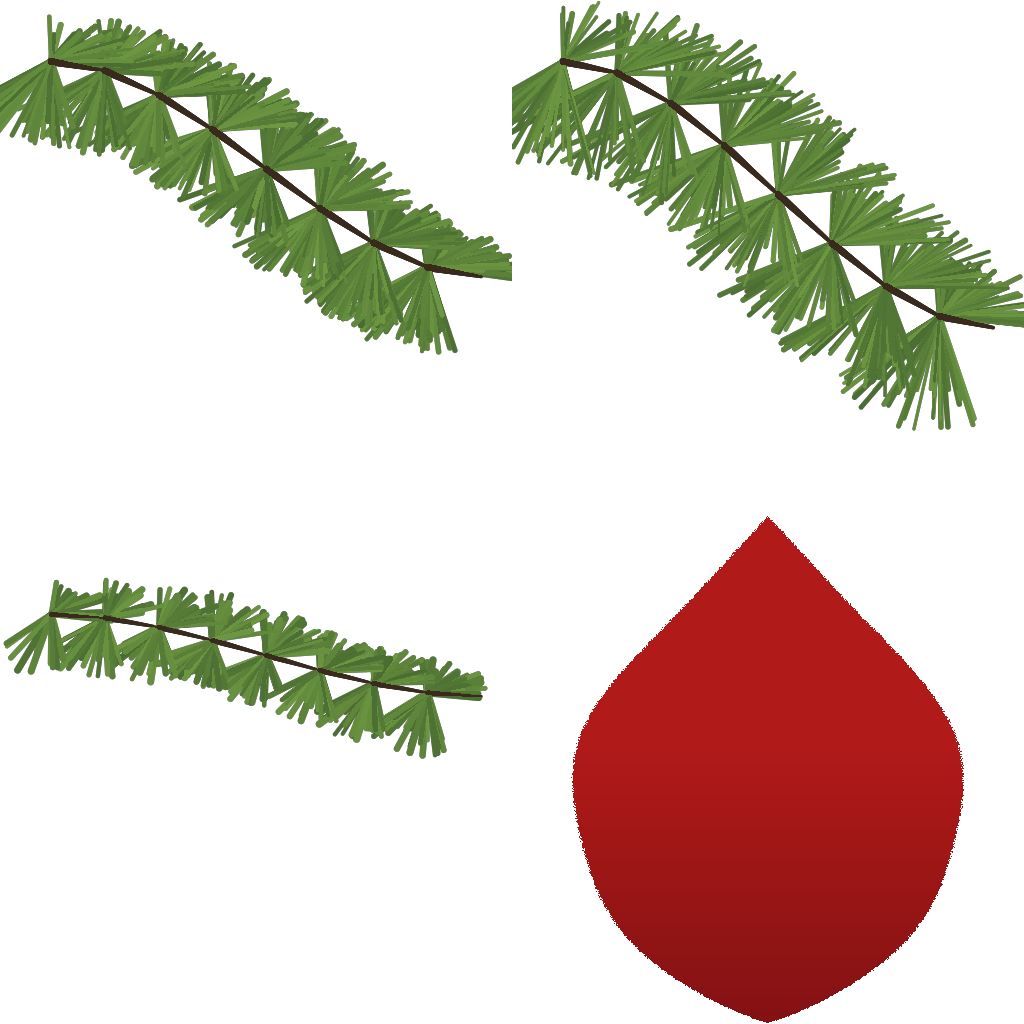
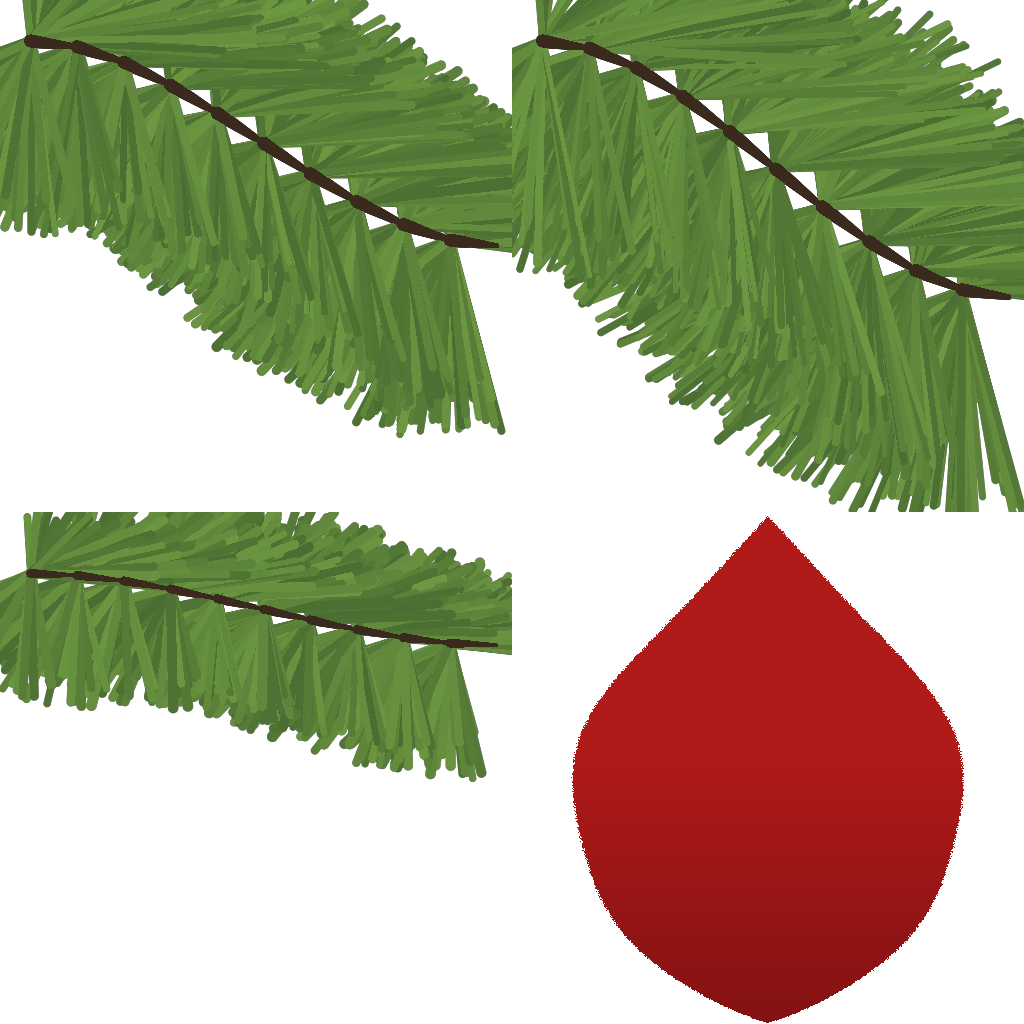
fix(strata): finish the V1b prop iteration and lint it (PRD-466 AC-5)

diff --git a/examples/strata-terrain-preview/src/game.ts b/examples/strata-terrain-preview/src/game.ts
@@ -212,9 +212,10 @@ function terrainScene(world: "forest" | "coastal"): new () => Scene<TerrainState
       }
       // --- the meadow's props -------------------------------------------------------------------
       //
-      // One variant set and one surface set per scene, built from the baked field: the placement
-      // rule reads the same colours and the same heights the ground material draws from, so a spruce
-      // stands where the ground says there is meadow rather than where a second opinion says so.
+      // Built on the first physics step rather than in `enter`, because both ways of asking the
+      // world where the ground is need a world that has been stepped: the ray query walks the
+      // heightfield's own triangles and the collider is not in the space until the solver runs.
+      // Asking in `enter` returns "no ground here" for every prop on a perfectly solid hillside.
       const propField: IPlacementField = {
         colors: data.colors,
         field,
@@ -225,65 +226,76 @@ function terrainScene(world: "forest" | "coastal"): new () => Scene<TerrainState
       const scatter = scatterProps(propField, BENCHMARK[world].focus);
       const propParts = buildPropVariants();
       const flat = flatPropMaterials();
-      // Ground contact is a raycast against the drawn terrain mesh, not the bilinear sampler: a
-      // spruce whose base floats a centimetre above the visible surface reads as a mistake at the
-      // exact distance a player spends the most time at.
-      const geometryBounds = mesh.geometry.boundingBox ?? mesh.geometry.computeBoundingBox();
-      const top = geometryBounds?.max.y ?? 0;
+      let props: ReturnType<typeof createProps> | undefined;
+      let released = false;
+      let surfacesDispose: (() => void) | undefined;
+      // Ground contact is a ray query against the drawn terrain and the terrain's collider, never
+      // the bilinear sampler: a spruce floating a centimetre above the visible surface reads as a
+      // mistake at exactly the distance a player spends most of their time at.
+      mesh.updateMatrixWorld(true);
+      mesh.geometry.computeBoundingBox();
+      const top = mesh.geometry.boundingBox?.max.y ?? 0;
       const groundAt: PropGroundQuery = (placement, at) => {
         const [x, , z] = at;
-        const hit = ctx.raycast({
+        const visual = ctx.raycast({
           direction: new Vector3(0, -1, 0),
           origin: new Vector3(x, top + 2, z),
           targets: [mesh],
         });
+        const physical = ctx.physics.directSpaceState.intersectRay({
+          collisionMask: 4,
+          from: { x, y: top + 2, z },
+          to: { x, y: -100, z },
+        });
         const [originX, originY, originZ] = placement.position;
         return {
-          height: hit?.point.y ?? null,
+          height: visual?.point.y ?? physical?.position.y ?? null,
           offset: originY - field.heightAt(originX, originZ),
         };
       };
-      const props = createProps(scatter.placements, groundAt, propParts, flat);
-      ctx.add(props.object);
-      ctx.entities.add("props", {
-        object: props.object,
-        debug: () => ({
-          boulders: scatter.counts.boulder,
-          draws: props.meshes.length,
-          grass: scatter.counts.grass,
-          poppies: scatter.counts.poppy,
-          spruces: scatter.counts.spruce,
-          totalInstances: props.meshes.reduce((sum, mesh) => sum + mesh.count, 0),
-          triangles: props.meshes.reduce(
-            (sum, mesh) => sum + (mesh.count * (mesh.geometry.index?.count ?? 0)) / 3,
-            0,
-          ),
-        }),
-        dispose: () => {
-          released = true;
-          surfacesDispose?.();
-          flat.dispose();
-          props.dispose();
-          for (const parts of propParts.values()) for (const part of parts) part.geometry.dispose();
-        },
-      });
-      // The lit surfaces and the maps arrive asynchronously; when they do every mesh swaps its
-      // material by role. Until then the props draw on flat stand-ins, so a slow or absent asset
-      // server costs this world its bark and its needles rather than its trees.
-      let released = false;
-      let surfacesDispose: (() => void) | undefined;
-      void createPropSurfaces(ctx.assets).then((surfaces) => {
-        this.#surfaces = surfaces;
-        if (released) {
-          surfaces.dispose();
-          return;
-        }
-        for (const mesh of props.meshes) {
-          const role = mesh.name.split(":").at(-1) as keyof typeof surfaces.materials;
-          mesh.material = surfaces.materials[role];
-        }
-        surfacesDispose = surfaces.dispose;
-      });
+      const buildProps = (): void => {
+        props = createProps(scatter.placements, groundAt, propParts, flat);
+        ctx.add(props.object);
+        ctx.entities.add("props", {
+          object: props.object,
+          debug: () => ({
+            boulders: scatter.counts.boulder,
+            draws: props?.meshes.length ?? 0,
+            grass: scatter.counts.grass,
+            poppies: scatter.counts.poppy,
+            spruces: scatter.counts.spruce,
+            totalInstances: props?.meshes.reduce((sum, draw) => sum + draw.count, 0) ?? 0,
+            triangles:
+              props?.meshes.reduce(
+                (sum, draw) => sum + (draw.count * (draw.geometry.index?.count ?? 0)) / 3,
+                0,
+              ) ?? 0,
+          }),
+          dispose: () => {
+            released = true;
+            surfacesDispose?.();
+            flat.dispose();
+            props?.dispose();
+            for (const parts of propParts.values())
+              for (const part of parts) part.geometry.dispose();
+          },
+        });
+        // The lit surfaces and the maps arrive asynchronously; when they do every mesh swaps its
+        // material by role. Until then the props draw on flat stand-ins, so a slow or absent asset
+        // server costs this world its bark and its needles rather than its trees.
+        void createPropSurfaces(ctx.assets).then((surfaces) => {
+          this.#surfaces = surfaces;
+          if (released) {
+            surfaces.dispose();
+            return;
+          }
+          for (const draw of props?.meshes ?? []) {
+            const role = draw.name.split(":").at(-1) as keyof typeof surfaces.materials;
+            draw.material = surfaces.materials[role];
+          }
+          surfacesDispose = surfaces.dispose;
+        });
+      };
 
       let frames = 0;
       let travel = 0;
@@ -365,6 +377,10 @@ function terrainScene(world: "forest" | "coastal"): new () => Scene<TerrainState
           minSlope = Math.min(minSlope, slope);
           maxSlope = Math.max(maxSlope, slope);
         }
+        // The props are placed here rather than in `enter`: their ground query asks the stepped
+        // world where the surface is, and neither the ray tree nor the collider answers before the
+        // solver has run once.
+        if (props === undefined) buildProps();
         frames++;
         ctx.state.set({
           world,
@@ -379,12 +395,13 @@ function terrainScene(world: "forest" | "coastal"): new () => Scene<TerrainState
           waveSamples,
           waveRange: waveSamples ? maxWave - minWave : 0,
           sampleSlopeRange: waveSamples ? maxSlope - minSlope : 0,
-          propDraws: props.meshes.length,
-          propInstances: props.meshes.reduce((sum, mesh) => sum + mesh.count, 0),
-          propTriangles: props.meshes.reduce(
-            (sum, mesh) => sum + (mesh.count * (mesh.geometry.index?.count ?? 0)) / 3,
-            0,
-          ),
+          propDraws: props?.meshes.length ?? 0,
+          propInstances: props?.meshes.reduce((sum, draw) => sum + draw.count, 0) ?? 0,
+          propTriangles:
+            props?.meshes.reduce(
+              (sum, draw) => sum + (draw.count * (draw.geometry.index?.count ?? 0)) / 3,
+              0,
+            ) ?? 0,
           windowDrawCalls: budget.drawCalls,
           windowFrameMs: budget.frameMs,
         });

diff --git a/examples/strata-terrain-preview/src/render/spruce.ts b/examples/strata-terrain-preview/src/render/spruce.ts
@@ -33,12 +33,16 @@ export const ATLAS_CELLS = {
 export const SPRUCE = {
   /** Bare trunk, as a share of total height: a spruce's crown starts about a fifth of the way up. */
   bareTrunk: 0.22,
-  /** Whorls up the trunk. Fewer and the tree reads as a pole with a hat on. */
-  whorls: 12,
+  /**
+   * Whorls up the trunk. This is the number that decides whether a spruce is a tree or a pole with
+   * a hat on: at 12 the whorls sit a metre apart on a fourteen-metre trunk and the crown reads as
+   * bare sticks with foliage on them.
+   */
+  whorls: 26,
   /** Branches per whorl at the widest part of the crown. */
-  branchesPerWhorl: 6,
+  branchesPerWhorl: 8,
   /** Longest branch, as a share of height. A spruce is spire, not sphere. */
-  crown: 0.19,
+  crown: 0.2,
   /** Trunk radius at the base, as a share of height. */
   trunkRadius: 0.021,
 } as const;
@@ -116,7 +120,7 @@ function trunk(height: number, seed: number): BufferGeometry {
     const level01 = level / rings;
     const angle = (side / sides) * Math.PI * 2;
     const flare = 1 + Math.max(0, 0.55 - level01 * 3.2);
-    const radius = base * Math.pow(1 - level01, 0.75) * flare;
+    const radius = base * (1 - level01) ** 0.75 * flare;
     return new Vector3(
       Math.cos(angle) * radius + leanX * envelope(level01) * height,
       level01 * height,
@@ -183,8 +187,7 @@ function branch(
   // A spruce branch is a catenary: it leaves the trunk nearly level and falls away as it goes out.
   const reach = (at: number) => origin.clone().addScaledVector(outward, length * at);
   const drop = (at: number) => droop * length * at * at;
-  const halfWidth = (at: number) =>
-    (width * (1 - at * 0.82) * Math.min(1, 0.35 + at * 1.6)) / 2;
+  const halfWidth = (at: number) => (width * (1 - at * 0.82) * Math.min(1, 0.35 + at * 1.6)) / 2;
   for (let i = 0; i < segments; i += 1) {
     const at0 = i / segments;
     const at1 = (i + 1) / segments;
@@ -192,10 +195,7 @@ function branch(
     const b = reach(at0).addScaledVector(across, halfWidth(at0));
     const c = reach(at1).addScaledVector(across, halfWidth(at1));
     const d = reach(at1).addScaledVector(across, -halfWidth(at1));
-    const normal = new Vector3()
-      .subVectors(b, a)
-      .cross(new Vector3().subVectors(d, a))
-      .normalize();
+    const normal = new Vector3().subVectors(b, a).cross(new Vector3().subVectors(d, a)).normalize();
     const u0 = cell.u0 + (cell.u1 - cell.u0) * at0;
     const u1 = cell.u0 + (cell.u1 - cell.u0) * at1;
     buffer.quad(
@@ -221,7 +221,7 @@ function crown(height: number, seed: number): BufferGeometry {
     // cards rather than a ring.
     const at = SPRUCE.bareTrunk + ((1 - SPRUCE.bareTrunk) * w) / (SPRUCE.whorls - 1);
     // Widest at the bottom of the crown, tapering to a spire. A cone of branches is a fir.
-    const taper = Math.pow(1 - (at - SPRUCE.bareTrunk) / (1 - SPRUCE.bareTrunk), 0.78);
+    const taper = (1 - (at - SPRUCE.bareTrunk) / (1 - SPRUCE.bareTrunk)) ** 0.78;
     const length = height * SPRUCE.crown * taper * (0.85 + random() * 0.3);
     const count = Math.max(3, Math.round(SPRUCE.branchesPerWhorl * (0.55 + taper * 0.45)));
     const phase = random() * Math.PI * 2;
@@ -243,8 +243,8 @@ function crown(height: number, seed: number): BufferGeometry {
         length,
         origin: new Vector3(0, at * height, 0),
         roll: (random() - 0.5) * 1.5,
-        segments: 2,
-        width: length * (0.5 + random() * 0.16),
+        segments: 3,
+        width: length * (0.72 + random() * 0.2),
       });
     }
   }

diff --git a/examples/strata-terrain-preview/src/render/scatter.ts b/examples/strata-terrain-preview/src/render/scatter.ts
@@ -1,3 +1,4 @@
+import { createRandom } from "@threenative/core";
 // Where the Temperate starter's props go.
 //
 // The rule is short and it is the rule the rubric is written against: a spruce stands on grass, a
@@ -10,7 +11,6 @@
 // can walk through it twice without the trees moving. Nothing here reads the frame clock.
 import type { Heightfield } from "@threenative/core/world";
 import type { IPlacement } from "@threenative/terrain";
-import { createRandom } from "@threenative/core";
 
 /** A field the placement rule reads: the world's own baked colours plus its sampled geometry. */
 export interface IPlacementField {
@@ -81,10 +81,15 @@ export const SCATTER = {
   boulderSpacing: 11,
   boulderAttempts: 2600,
   boulderScale: [0.7, 2.6],
-  /** Grass clumps per accepted cell, and the cell size, in metres. */
-  grassCell: 2.6,
-  /** Cells either side of the focus that are considered at all. */
-  grassRadiusCells: 11,
+  /**
+   * The grass cell, in metres, and the cells either side of the focus that are considered at all.
+   *
+   * Half a metre is the number that matters: a clump every half metre reads as continuous ground
+   * from eye height, one every two metres reads as scattered weeds on a lawn, and the difference is
+   * not visible in any count — only in the picture.
+   */
+  grassCell: 0.55,
+  grassRadiusCells: 30,
   /** Poppies grow in patches: a patch centre, and a radius around it, in metres. */
   poppyPatches: 26,
   poppyPatchRadius: [3.5, 11],
@@ -175,7 +180,6 @@ export function scatterProps(data: IPlacementField, focus: { x: number; z: numbe
   // not walked at all.
   const grass = createRandom(SCATTER.seed ^ 0x27d4);
   const cellSize = SCATTER.grassCell;
-  const cells = SCATTER.grassRadiusCells * 2 + 1;
   const centre = Math.round(focus.x / cellSize);
   const centreZ = Math.round(focus.z / cellSize);
   for (let row = -SCATTER.grassRadiusCells; row <= SCATTER.grassRadiusCells; row += 1) {
@@ -183,9 +187,11 @@ export function scatterProps(data: IPlacementField, focus: { x: number; z: numbe
       const cellX = (centre + column) * cellSize;
       const cellZ = (centreZ + row) * cellSize;
       const distance = Math.hypot(cellX - focus.x, cellZ - focus.z);
-      // Full density out to a third of the radius, thinning to a fifth of that at the edge.
-      const density = Math.max(0.16, 1 - distance / (SCATTER.grassRadiusCells * cellSize * 1.15));
-      if (grass() > density * 0.92) continue;
+      // Full density out to a third of the radius, thinning to a fifth of that at the edge. A meadow
+      // read at eye height is a wall of blades in the first few metres and a suggestion past fifteen,
+      // and that is what a distance-weighted density buys over a uniform carpet.
+      const density = Math.max(0.1, 1 - distance / 14);
+      if (grass() > density) continue;
       const x = cellX + (grass() - 0.5) * cellSize;
       const z = cellZ + (grass() - 0.5) * cellSize;
       if (!inside(x, z, 4) || wet(x, z)) continue;

diff --git a/examples/strata-terrain-preview/src/render/propMaterials.ts b/examples/strata-terrain-preview/src/render/propMaterials.ts
@@ -242,7 +242,14 @@ export async function createPropSurfaces(assets?: IAssetLoader): Promise<IPropSu
 
   const barkMaterial = new MeshStandardNodeMaterial({ metalness: 0, roughness: 0.95 });
   if (bark.diffuse === undefined) barkMaterial.colorNode = vec3(0.26, 0.15, 0.11);
-  else barkMaterial.map = bark.diffuse;
+  else {
+    barkMaterial.map = bark.diffuse;
+    // Bark Brown 02 is a dark, damp-looking bark, and a spruce trunk spends most of its visible
+    // length inside its own crown's shadow: untinted it renders as a black pole with a silhouette.
+    // The lift is warm and well under 2, which keeps the plates legible without turning the trunk
+    // into a highlight.
+    barkMaterial.colorNode = vec3(1.85, 1.7, 1.55);
+  }
   if (bark.normal !== undefined) barkMaterial.normalMap = bark.normal;
   if (bark.roughness !== undefined) barkMaterial.roughnessMap = bark.roughness;
   sway(barkMaterial, seconds, WIND.amplitude.bark);
@@ -260,11 +267,13 @@ export async function createPropSurfaces(assets?: IAssetLoader): Promise<IPropSu
     crownMaterial.alphaTestNode = mipCompensatedCutoff(atlas);
   }
   // New growth at the tips is lighter than the shaded interior: the same gradient the grass has,
-  // driven by the sway weight, which is a share of the tree's own height.
+  // driven by the sway weight, which is a share of the tree's own height. Both ends stay under 1 —
+  // a tint above white is not a lighter needle, it is a blown highlight, and a forest of them reads
+  // as a field of white cutouts.
   if (atlas !== undefined)
     crownMaterial.colorNode = mix(
-      vec3(0.72, 0.86, 0.66),
-      vec3(1.06, 1.12, 1),
+      vec3(0.62, 0.74, 0.58),
+      vec3(0.86, 0.94, 0.78),
       smoothstep(float(0.15), float(0.95), attribute<"float">("sway", "float")),
     );
   crownMaterial.roughness = 0.87;

diff --git a/examples/strata-terrain-preview/src/render/cover.ts b/examples/strata-terrain-preview/src/render/cover.ts
@@ -10,12 +10,7 @@
 // and light at the tip, and a clump is a handful of them at different angles — which is what makes
 // a lawn read as depth rather than as a green plane with a texture on it.
 import { createRandom } from "@threenative/core";
-import {
-  BufferAttribute,
-  BufferGeometry,
-  IcosahedronGeometry,
-  Vector3,
-} from "three";
+import { BufferAttribute, BufferGeometry, IcosahedronGeometry, Vector3 } from "three";
 
 /** How the boulders read, in metres. Sized against a spruce's 12-17 m, not in the abstract. */
 export const ROCK = {
@@ -101,7 +96,12 @@ class CoverBuffer {
     return this.sway.length - 1;
   }
 
-  quad(corners: readonly Vector3[], normal: Vector3, colors: readonly Vector3[], weight: number): void {
+  quad(
+    corners: readonly Vector3[],
+    normal: Vector3,
+    colors: readonly Vector3[],
+    weight: number,
+  ): void {
     const base = this.sway.length;
     corners.forEach((point, i) => this.vertex(point, normal, colors[i] as Vector3, weight));
     this.index.push(base, base + 1, base + 2, base, base + 2, base + 3);
@@ -256,8 +256,14 @@ export function poppyCluster(
         [
           centre.clone().addScaledVector(right, -radius),
           centre.clone().addScaledVector(right, radius),
-          centre.clone().addScaledVector(right, radius).addScaledVector(up, radius * 1.15),
-          centre.clone().addScaledVector(right, -radius).addScaledVector(up, radius * 1.15),
+          centre
+            .clone()
+            .addScaledVector(right, radius)
+            .addScaledVector(up, radius * 1.15),
+          centre
+            .clone()
+            .addScaledVector(right, -radius)
+            .addScaledVector(up, radius * 1.15),
         ],
         new Vector3(0, 1, 0),
         [white, white, white, white],

diff --git a/examples/strata-terrain-preview/src/render/props.ts b/examples/strata-terrain-preview/src/render/props.ts
@@ -135,7 +135,10 @@ function preparePose(
   const ground = groundAt(placement, model.position.toArray());
   const snap = new GroundSnap(model, { enabled: grounding });
   if (ground.height === null) {
-    if (grounding) throw new Error(`Missing terrain ground for '${placement.id}'`);
+    if (grounding)
+      throw new Error(
+        `Missing terrain ground for '${placement.id}' at ${JSON.stringify(model.position.toArray())}`,
+      );
   } else {
     snap.apply(model, ground.height, 0);
     if (grounding && ground.offset !== 0) {
